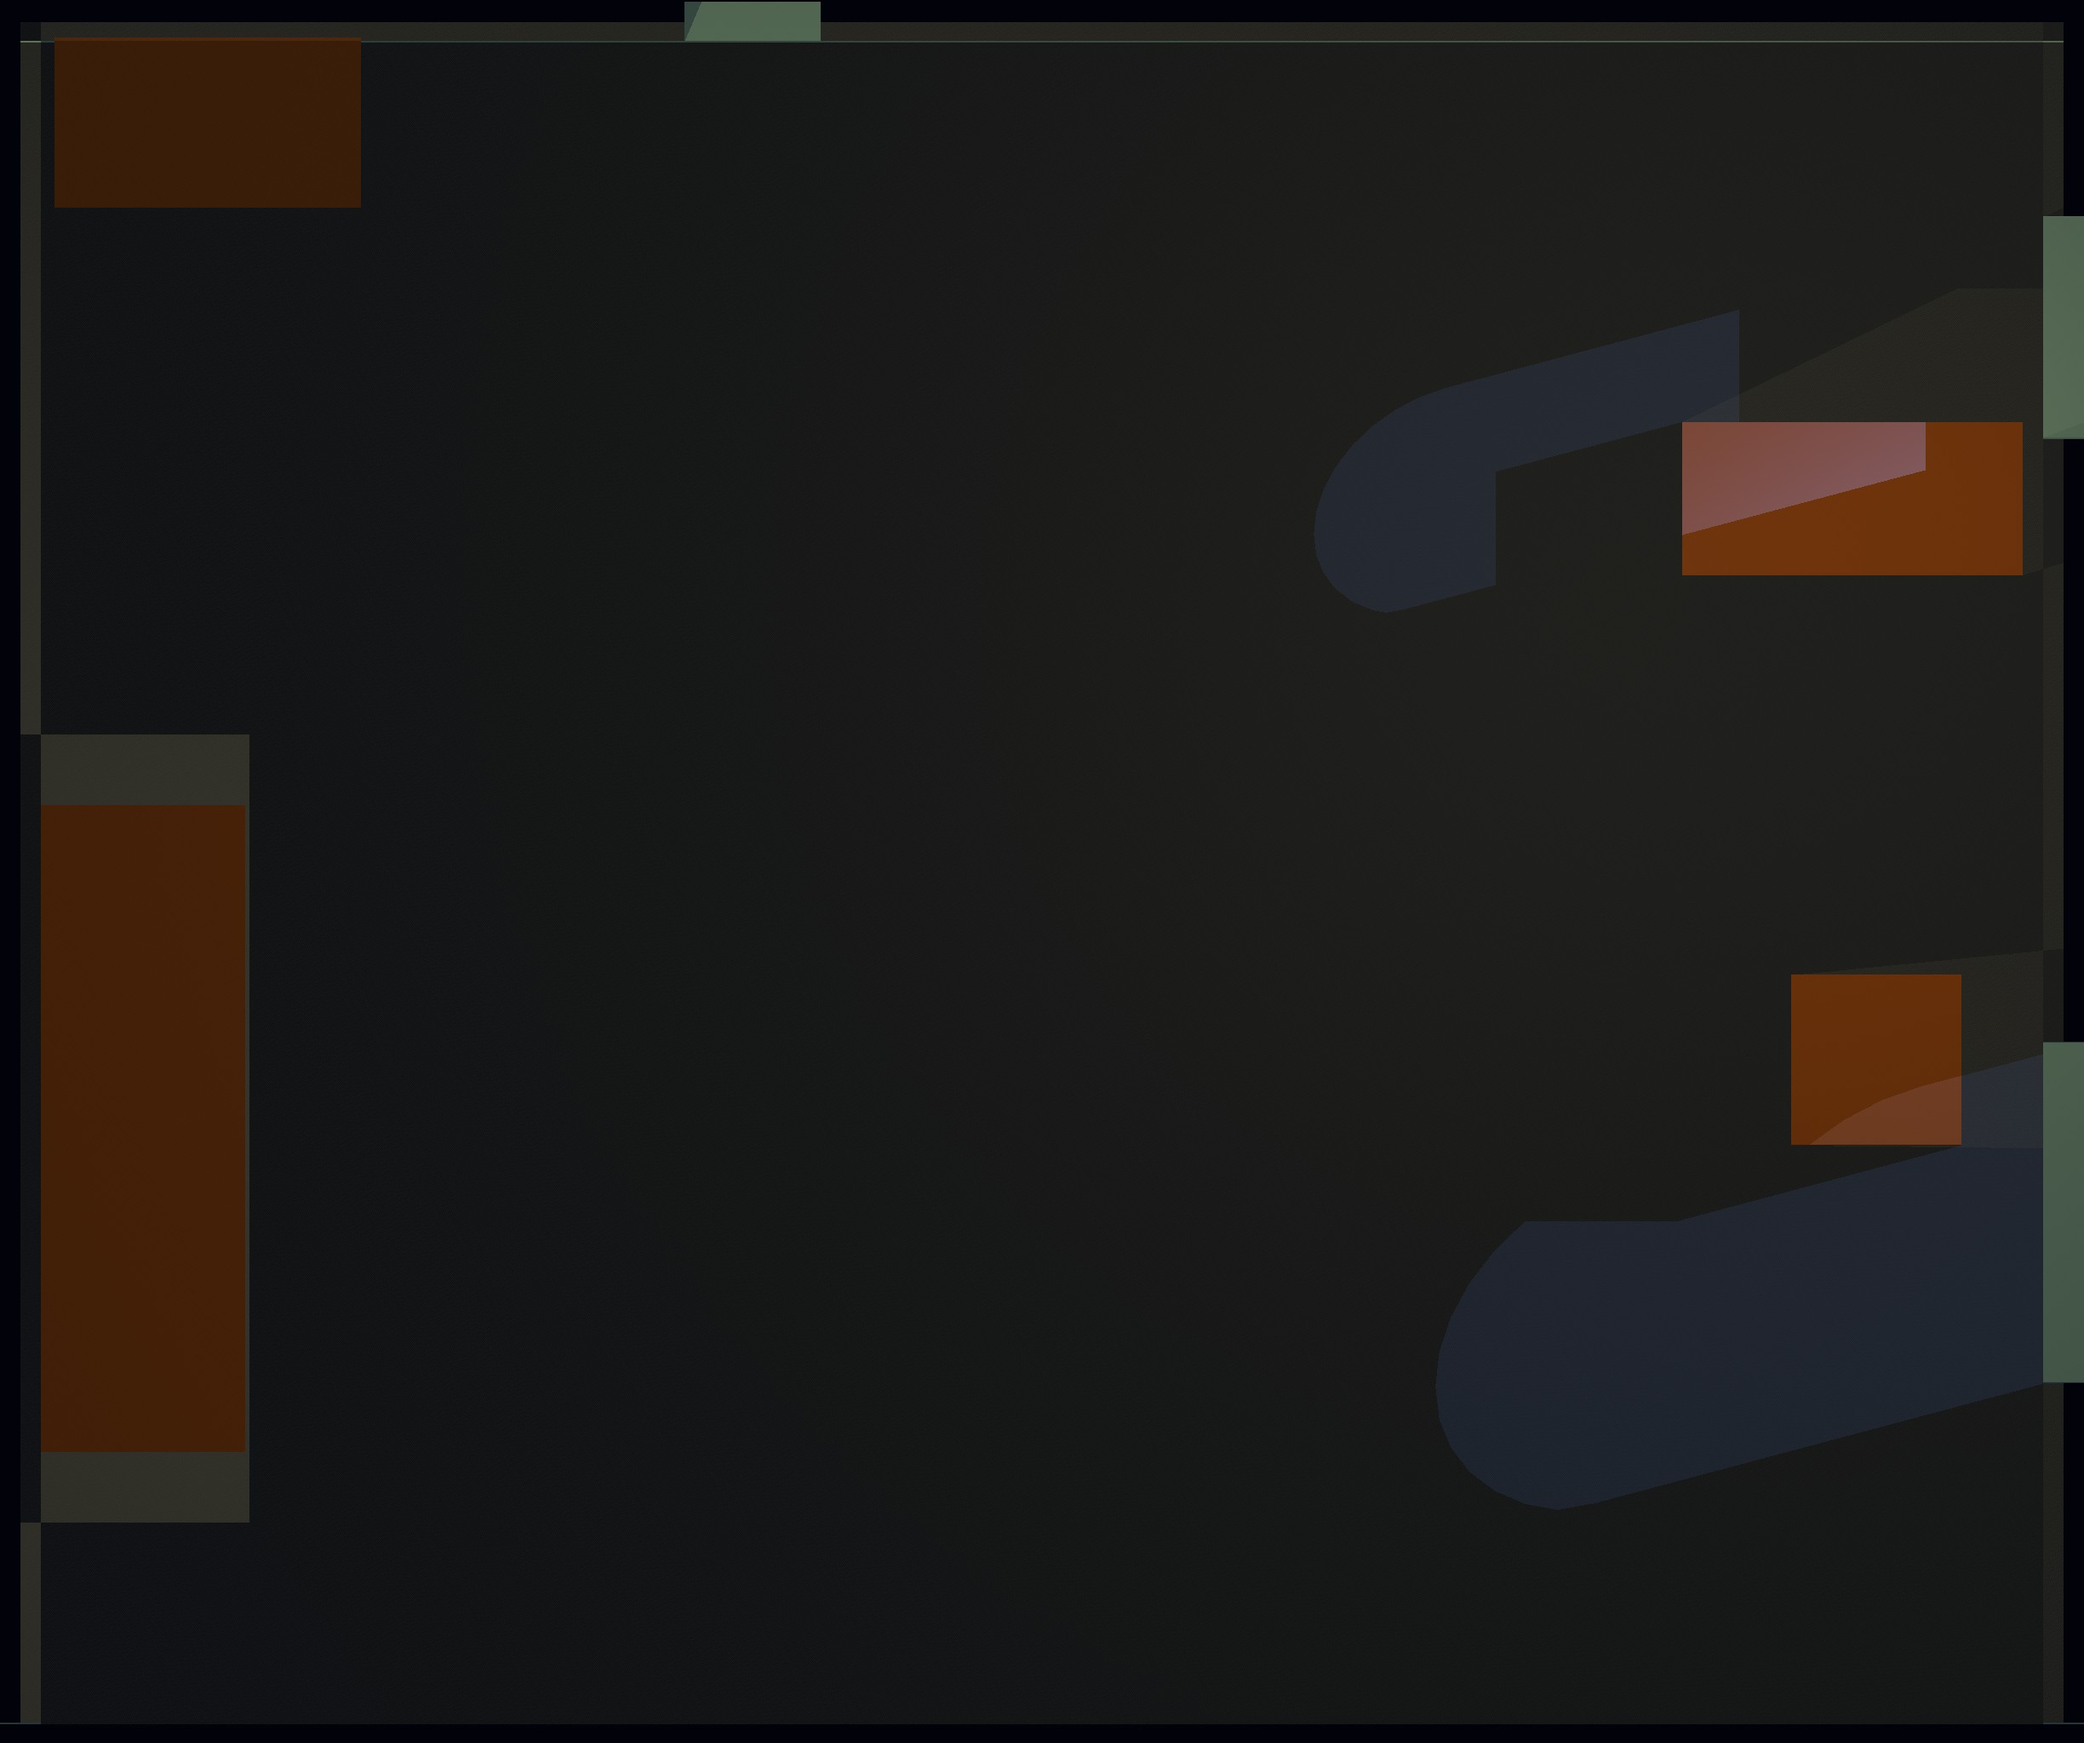
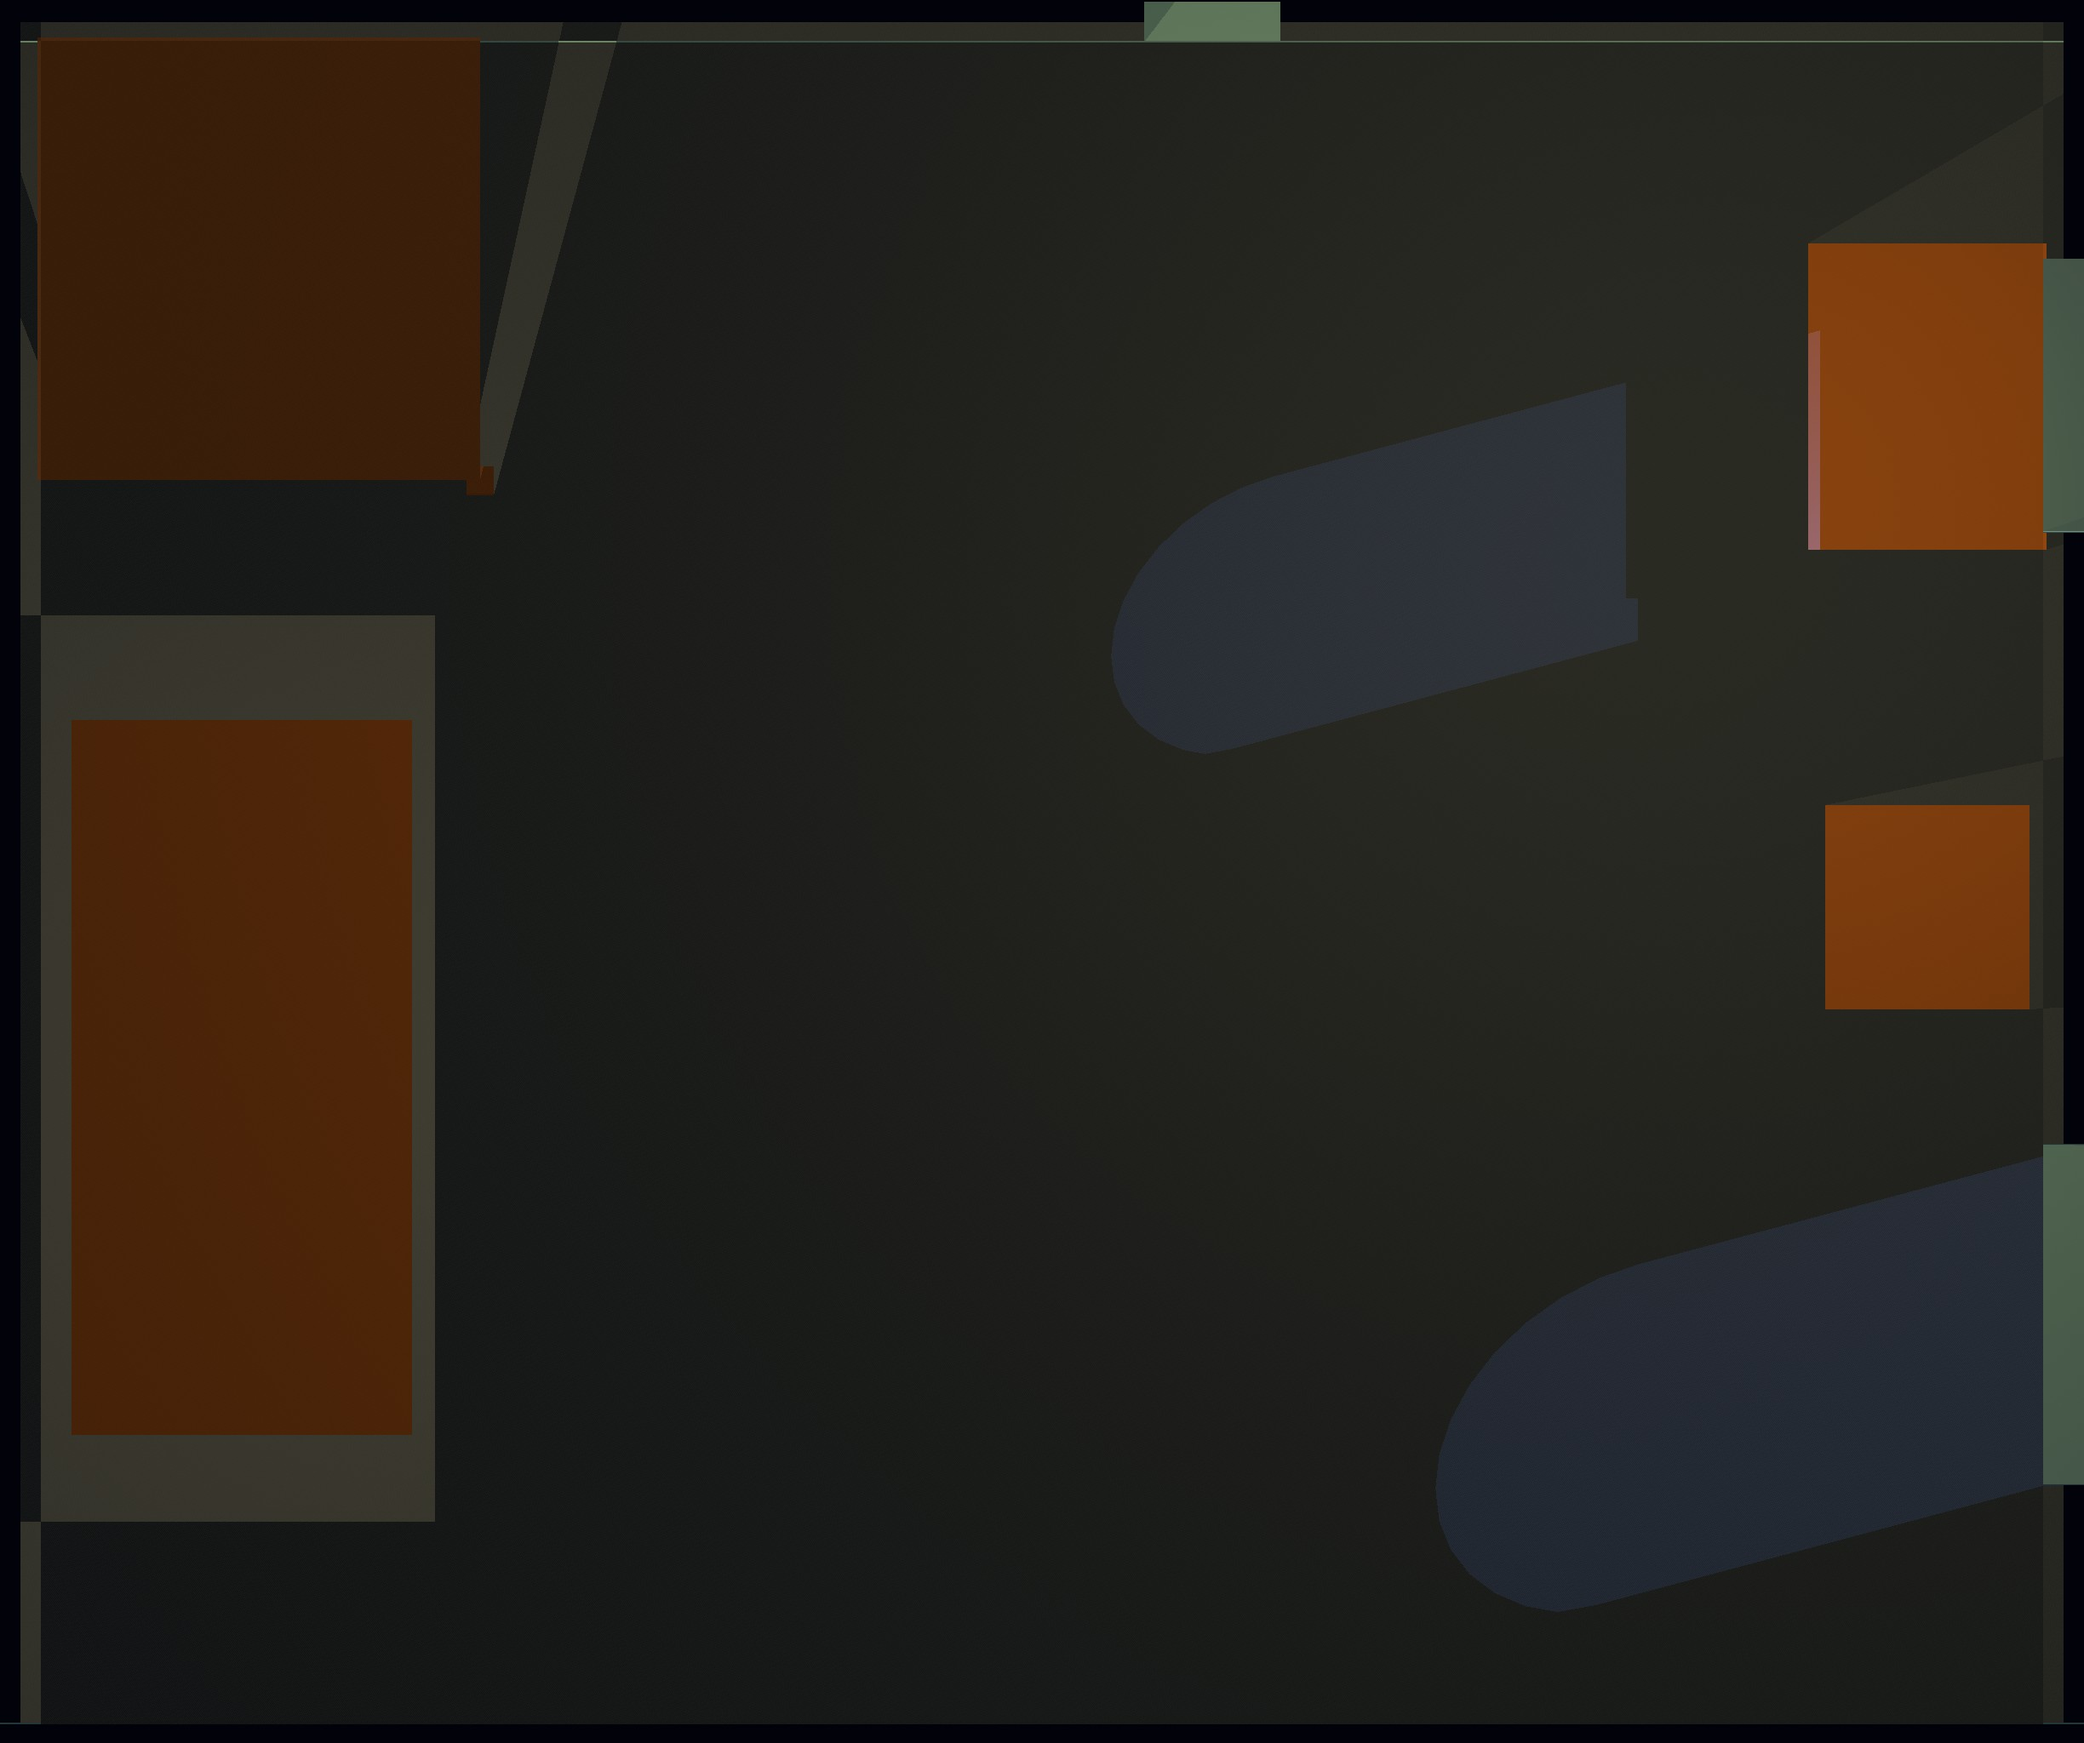
Refine workshop blockout layout and opening clearances

diff --git a/samples/Book/.github/instructions/scener-shot-composition.instructions.md b/samples/Book/.github/instructions/scener-shot-composition.instructions.md
@@ -27,6 +27,9 @@ applyTo: "Rooms/**/*.blk, Rooms/**/*.blks"
   workstations along a clipped foreground wall or beneath the camera where they
   are heavily cropped. Align major workstations along visible flanking walls
   (e.g., the left wall in a corner establishing shot).
+- Never place objects or furniture directly in front of doors, window cutouts, or
+  passages that obscure their silhouettes or light paths. All openings must have
+  an unobstructed line of sight and passage.
 - Avoid duplicate or conflicting major exits; ensure distinct room functions and
   clear passage silhouettes.
 - Keep directional and sunlight pitched downwards at 30 to 45 degrees from
@@ -40,8 +43,14 @@ applyTo: "Rooms/**/*.blk, Rooms/**/*.blks"
   knobs, handles, fasteners, loose debris, and surface clutter unless they are
   required for interaction or shot comprehension.
 - Block large semantic forms such as desks, ladders, drawers, doors, windows,
-  and major props. The blockout communicates stable layout; it must not imply
+  shelves, stairs, and major props. The blockout communicates stable layout; it must not imply
   that an artist should trace incidental detail literally.
+- Maintain pure blocking discipline: avoid adding small decorative components (legs, handles,
+  knobs, small clutter) during layout iteration. Rely on bold, well-proportioned masses,
+  architectural framing (beams, mezzanines, pillars), and clear functional zones.
+- Iterate through visual review: author blockout masses in `.blks`, render the establishing
+  shot, critically review depth, overlap, silhouette readability, and spatial balance,
+  and reposition masses until the shot reads strongly.
 - Use a frontal camera only when a specific story beat requires symmetry or
   direct confrontation.
 - Validate the unstyled blockout render. If the shot is boring without surface
